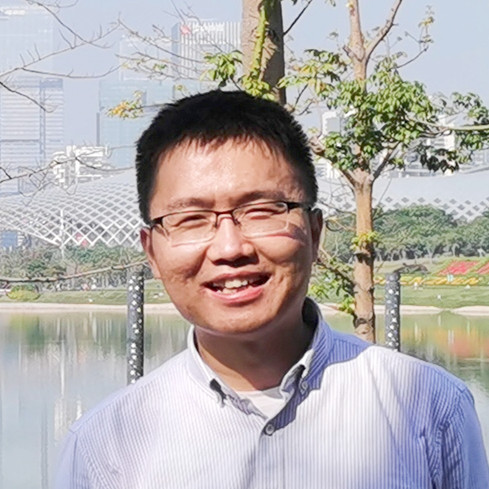
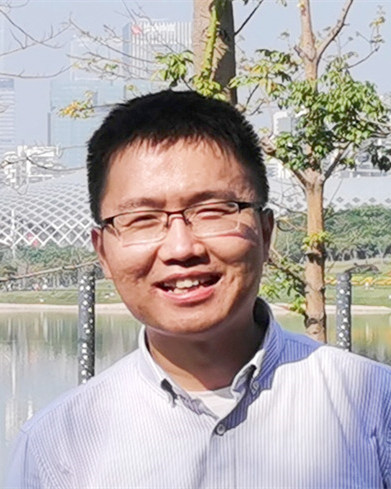
Add files via upload

diff --git a/index.html b/index.html
@@ -45,10 +45,11 @@ a:active {color: blue}
 <!--  <br>  -->
 <table width=" " border="0">  <!--  width="1200" -->
   	<tbody><tr>
-    	<td width="260"><font face="Arial" style="font-size: 24">
+    	<td width="210"><font face="Arial" style="font-size: 24">
     		<!-- <img src="weigao.jpg" alt="Wei GAO" width="176" height="220"></font> -->
 			<!-- <img src="weigao.jpg" alt="" width="180" height="225"></font>  --> <!-- <img src="weigao.jpg" alt="" width="160" height="200"></font> -->
-			<img src="weigao.jpg" alt="" width="240" height="240"></font> 
+			<!-- width="240" height="240" -->
+			<img src="weigao.jpg" alt="" width="192" height="240"></font> 
 
     	</td>
     	<!-- <td width="800" bordercolor="#000000" bgcolor="#FFFFE0"> -->
